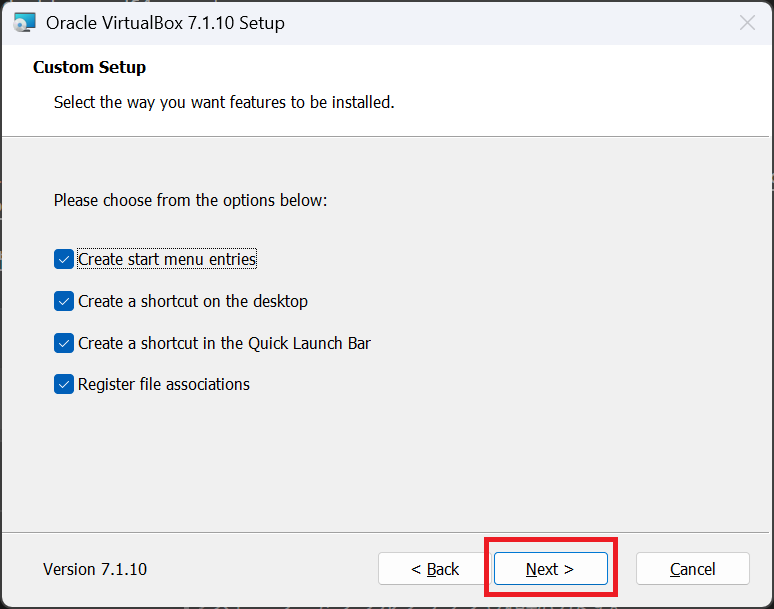
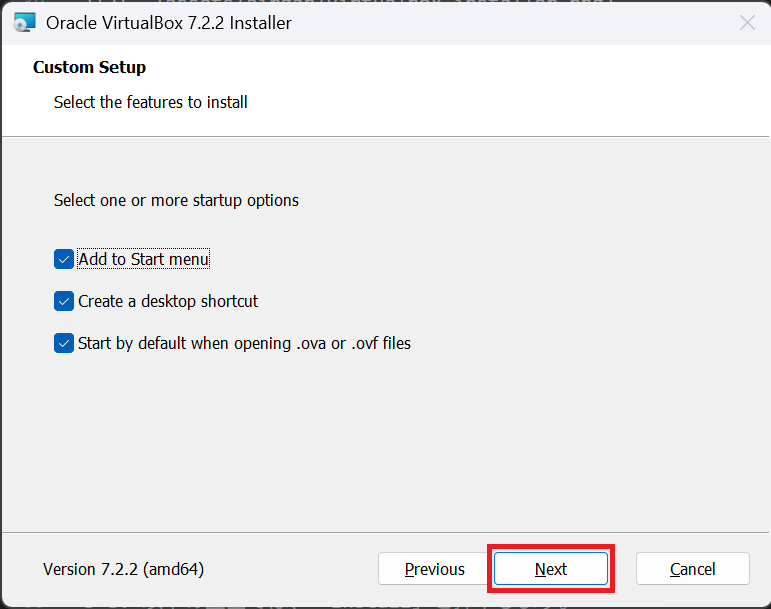
VirtualBox Installation 2

diff --git a/spo-docs/docs/airgap/02-windows-virtualbox-with-ctool.md b/spo-docs/docs/airgap/02-windows-virtualbox-with-ctool.md
@@ -20,7 +20,7 @@ title: WindowsでVirtualBox with ctoolの環境構築
 
 ## 2. VirtualBox の入手
 
-- [Oracle VirtualBox 7.1.10 の入手](https://www.oracle.com/jp/virtualization/technologies/vm/downloads/virtualbox-downloads.html)
+- [Oracle VirtualBox 7.2.2 の入手](https://www.virtualbox.org/wiki/Downloads)
 
 1-1. 以下の画像の赤く囲ったところを押下してダウンロードします。
 
@@ -29,7 +29,7 @@ title: WindowsでVirtualBox with ctoolの環境構築
 
 | ファイル名 |
 |-----------|
-| VirtualBox-7.1.10-169112-Win.exe |
+| VirtualBox-7.2.2-170484-Win.exe |
 
 
 ## 3. VirtualBox のインストール
@@ -83,9 +83,9 @@ title: WindowsでVirtualBox with ctoolの環境構築
 
 | 項目                    | 指定値                                      |
 |-------------------------|--------------------------------------------|
-| 名前                    | 任意の仮想マシン名                           |
+| VM名                    | 任意の仮想マシン名                           |
 | ISO イメージ             | 1でダウンロードした Ubuntu ISO ファイルを指定 |
-| 自動インストールをスキップ | チェックをする                             |
+| 無人インストールを実行    | チェックを外す                              |
 
 ![](../assets/airgap/virtualbox-windows-new-machine-wizard-01.png)
 
@@ -118,142 +118,153 @@ title: WindowsでVirtualBox with ctoolの環境構築
 ![](../assets/airgap/virtualbox-windows-new-machine-wizard-04.png)
 
 
-## 5. VirtualBox仮想マシンの環境設定
+## 5. VirtualBox仮想マシン環境設定
 
 5-1. 作成した仮想マシン(今回は Airgap)を選択し、「設定」を押下します。
 
 ![](../assets/airgap/virtualbox-windows-edit-machine.png)
 
 
-5-2. 
+5-2. 「一般」メニューを押下して、「クリップボード共有」と「ドラッグ&ドロップ」をどちらも「双方向」に変更します。
 
 ![](../assets/airgap/virtualbox-windows-edit-machine-general.png)
 
 
-5-3.
+5-3.「システム」メニューを押下し、「フロッピー」のチェックを外し、「ポインティングデバイス」を「PS/2 マウス」に設定します。
 
 ![](../assets/airgap/virtualbox-windows-edit-machine-system.png)
 
 
-5-4.
+5-4. 「共有フォルダー」メニューを押下し、右上の「新しい共有フォルダーを追加」ボタンを押下します。
 
 ![](../assets/airgap/virtualbox-windows-edit-machine-share.png)
 
 
-5-5.
+5-5. 以下の表を参考に設定をし「OK」を押下します。
+
+| 項目           | 設定値                                     |
+|----------------|-------------------------------------------|
+| フォルダーパス  | Windows 上に作成した任意のディレクトリを選択 |
+| マウントポイント | /media/share                             |
+| 自動マウント    | 自動マウント にチェックを入れる             |
 
 ![](../assets/airgap/virtualbox-windows-edit-machine-share-new.png)
 
 
 ## 6. Ubuntu のインストール
 
-6-1.
+6-1. Oracle VirtualBox マネージャーの「起動」ボタンを押下して仮想マシンを起動します。
 
 ![](../assets/airgap/virtualbox-windows-boot.png)
 
 
-
-6-2.
+6-2. 少し待つと以下の画面が表示されますので、左のリストから「日本語」を選択してください。日本語を選択すると、UIが日本語に変わります。
 
 ![](../assets/airgap/virtualbox-ubuntu-install-01.png)
 
 
-6-3.
+6-3. 以下の画面で「Ubuntuをインストール」を押下してください。
 
 ![](../assets/airgap/virtualbox-ubuntu-install-02.png)
 
 
-6-4.
+6-4. 以下の画面では、「Japanese」「Japanese」を選択してください。USキーボードをご利用の方は、「キーボードレイアウトを検出」ボタンを押下してください。
+![](../assets/airgap/virtualbox-ubuntu-install-02-5.png)
 
+
+6-5. 以下の画面では、「通常のインストール」「Ubuntu のインストール中にアップデートをダウンロードする」にチェックを入れてください。
 ![](../assets/airgap/virtualbox-ubuntu-install-03.png)
 
 
-6-5.
-
+6-6. 以下の画面では、「ディスクを削除してUbuntuをインストール」にチェックが入っている事を確認し、そのまま「インストール」を押下してください。
 ![](../assets/airgap/virtualbox-ubuntu-install-04.png)
 
 
-6-6.
-
+6-7. 以下の画面では、そのまま「続ける」を押下してください。
 ![](../assets/airgap/virtualbox-ubuntu-install-05.png)
 
 
-6-7.
-
+6-8. 以下の画面では、お住まいの地域を選択して、「続ける」を押下してください。
 ![](../assets/airgap/virtualbox-ubuntu-install-06.png)
 
 
-6-8.
+6-9. 以下の画面では、「あなたの名前」に「Airgap」と入力しました。そうすると、「コンピューターの名前」と「ユーザー名の入力」欄も自動的に入力されますので、後は「パスワードの入力」と「パスワードの確認」を入力して「続ける」を押下してください。
 ![](../assets/airgap/virtualbox-ubuntu-install-07.png)
 
 
-6-9.
+6-10. 以下の画像のようにインストールが始まります。
 ![](../assets/airgap/virtualbox-ubuntu-install-08.png)
 
 
-6-10.
-
+6-11. 以下の画面が表示されたら、インストールは完了です。指示通り「今すぐ再起動する」を押下してください。
 ![](../assets/airgap/virtualbox-ubuntu-install-09.png)
 
 
-6-11.
-
+6-12. この画面が表示されたら、Enterキーを押下してください。
 ![](../assets/airgap/virtualbox-ubuntu-install-10.png)
 
 
-6-12.
-
+6-13. この画面が表示されたら、ユーザー名を押下してください。
 ![](../assets/airgap/virtualbox-ubuntu-install-11.png)
 
 
-6-13.
-
+6-14. この画面が表示されたら、パスワードを入力し Enterキーを入力してください。
 ![](../assets/airgap/virtualbox-ubuntu-install-12.png)
 
 
-6-14.
-
+6-15. この画面では、「スキップ」を押下してください。
 ![](../assets/airgap/virtualbox-ubuntu-install-13.png)
 
 
-6-15.
-
+6-16. この画面では、「今回はスキップ」にチェックが入っている事を確認し「次へ」を押下してください。
 ![](../assets/airgap/virtualbox-ubuntu-install-14.png)
 
 
-6-16.
-
-![](../assets/airgap/virtualbox-ubuntu-install-15.png)
-
-
-6-17.
-
+6-17. この画面では、「いいえ、送信しません」にチェックが入っている事を確認し「次へ」を押下してください。
 ![](../assets/airgap/virtualbox-ubuntu-install-16.png)
 
 
-6-18.
-
+6-18. この画面では、「位置情報サービス」がOFFになっている事を確認し「次へ」を押下してください。
 ![](../assets/airgap/virtualbox-ubuntu-install-17.png)
 
 
-6-19.
-
+6-19. この画面で初期設定は完了です。「完了」を押下してこの画面を閉じてください。
 ![](../assets/airgap/virtualbox-ubuntu-install-18.png)
 
 
-6-20.
+## 7. Ubuntu アップデートについて
 
-![](../assets/airgap/virtualbox-ubuntu-install-19.png)
-
-
-6-21.
+7-1. この画面では、「アップグレードしない」を押下してください。
 
 ![](../assets/airgap/virtualbox-ubuntu-install-20.png)
 
 
-## 7. Guest Addtions のインストール & 設定
+7-2. この画面では、「今すぐインストールする」を押下してください。
+![](../assets/airgap/virtualbox-ubuntu-update-01.png)
 
-7-1.
+
+7-3. ソフトウェアの更新がおこなわれますので、完了するまでお待ちください。
+![](../assets/airgap/virtualbox-ubuntu-update-02.png)
+
+
+
+
+## 8. Guest Addtions のインストール & 設定
+
+8-1. メニューの「デバイス」から「Guest Additions CD イメージを挿入...」を押下します。
+![](../assets/airgap/virtualbox-ubuntu-additions-01.png)
+
+
+8-2. 左のランチャーバーのCDのマークを押下し、「ファイル」アプリを起動し「autorun.sh」を右クリックし、「プログラムとして実行」を押下します。
+![](../assets/airgap/virtualbox-ubuntu-additions-02.png)
+
+
+8-3. パスワードを聞かれますのでパスワードを入力してください。
+
+
+8-4. Guest Additionsのインストールが完了しますので、Enterキーを押して端末を閉じてください。
+![](../assets/airgap/virtualbox-ubuntu-additions-04.png)
+
 
 ![](../assets/airgap/virtualbox-ubuntu-guest-additions-01.png)
 
